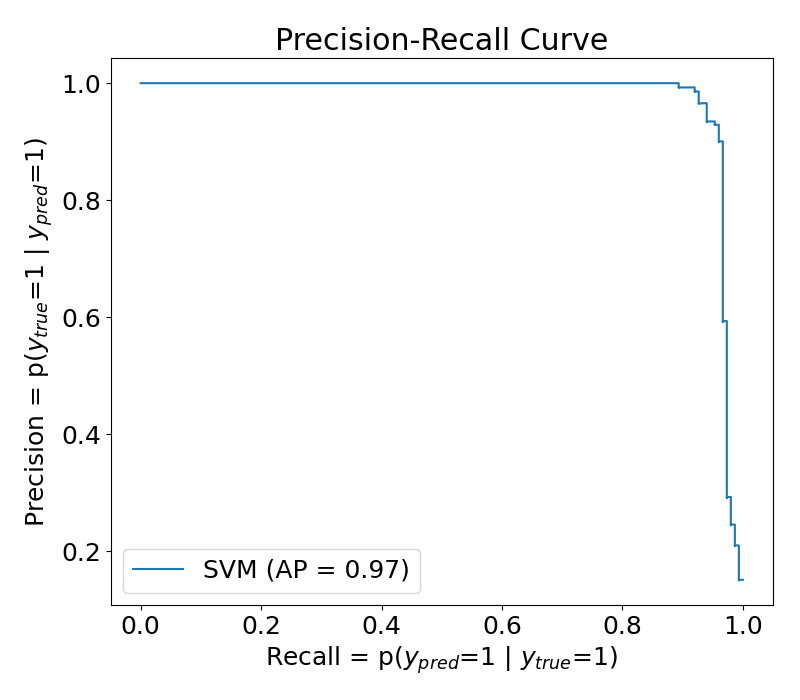
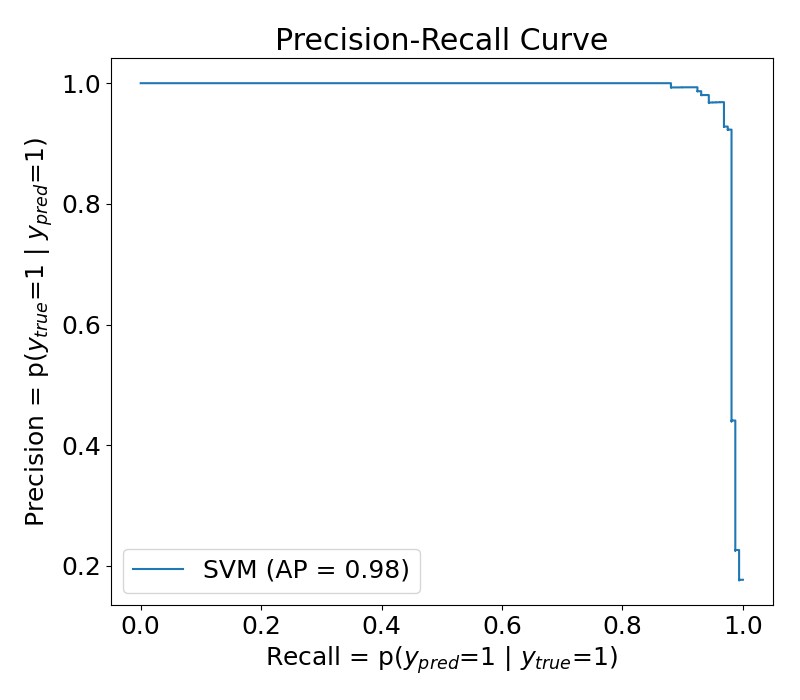
Update

diff --git a/SVM/SMS_spam_classifier.py b/SVM/SMS_spam_classifier.py
@@ -67,7 +67,7 @@ def lemmas(message):
 def train_multinomial_nb(messages):
     # split dataset for cross validation
     msg_train, msg_test, label_train, label_test = train_test_split(
-        messages['message'], messages['label'], test_size=0.2)
+        messages['message'], messages['label'], test_size=0.2, random_state=123)
     # create pipeline
     pipeline = Pipeline([('bow', CountVectorizer(analyzer=lemmas)),
                          ('tfidf', TfidfTransformer()), ('classifier', MultinomialNB())])
@@ -118,7 +118,7 @@ def train_multinomial_nb(messages):
 def train_svm(messages):
     # split dataset for cross validation
     msg_train, msg_test, label_train, label_test = train_test_split(
-        messages['message'], messages['label'], test_size=0.2)
+        messages['message'], messages['label'], test_size=0.2, random_state=123)
     # create pipeline
     pipeline = Pipeline([('bow', CountVectorizer(analyzer=lemmas)),
                          ('tfidf', TfidfTransformer()), ('classifier', SVC(probability=True))])
@@ -170,12 +170,12 @@ def train_svm(messages):
 
 def main(argv):
   # check if models exist, if not run training
-    if(os.path.isfile('/Users/daniel/Data-Science/Data/Spam/SMS-Spam-Collection/ml_models/sms_spam_nb_model.pkl') == False):
+    if(not os.path.isfile('/Users/daniel/Data-Science/Data/Spam/SMS-Spam-Collection/ml_models/sms_spam_nb_model.pkl') == False):
         print("")
         print("Creating Naive Bayes Model.....")
         train_multinomial_nb(MESSAGES)
 
-    if(os.path.isfile('/Users/daniel/Data-Science/Data/Spam/SMS-Spam-Collection/ml_models/sms_spam_svm_model.pkl') == False):
+    if(not os.path.isfile('/Users/daniel/Data-Science/Data/Spam/SMS-Spam-Collection/ml_models/sms_spam_svm_model.pkl') == False):
         print("")
         print("Creating SVM Model.....")
         train_svm(MESSAGES)
